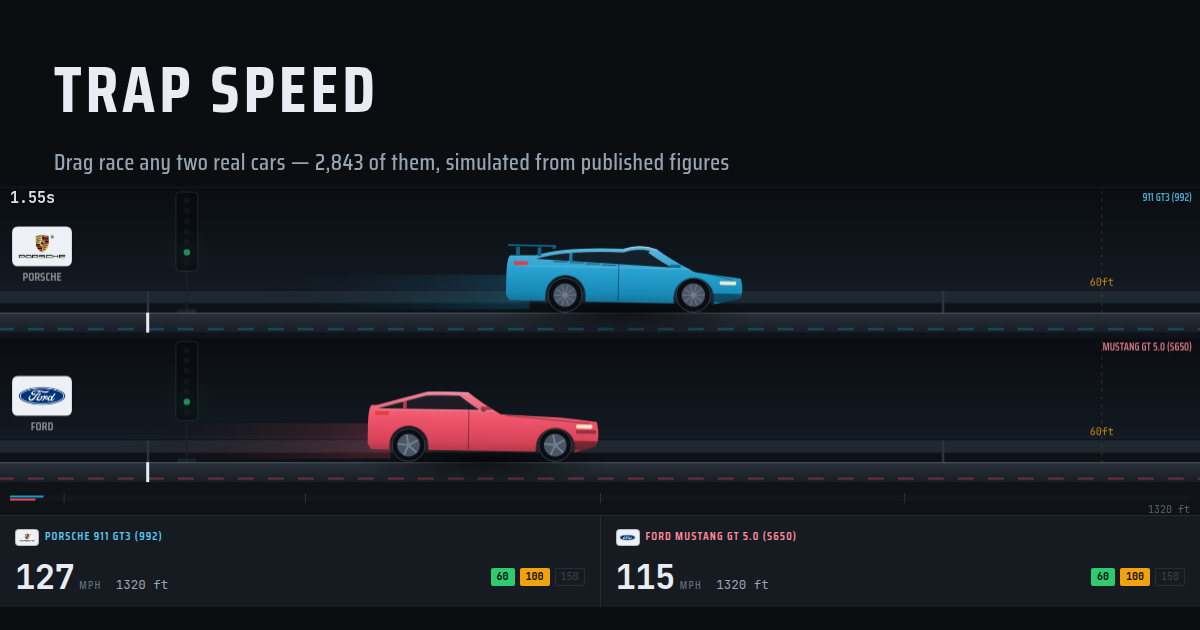
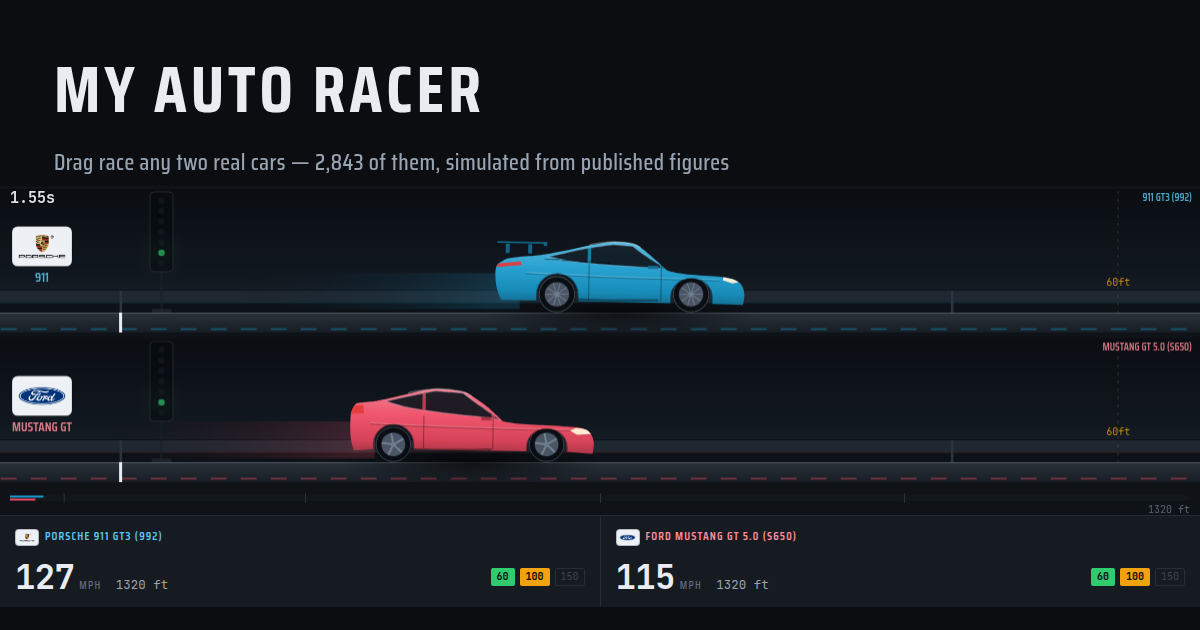
Rebrand to My Auto Racer
The site said Trap Speed everywhere and the domain says myautoracer.com;
two names for one thing is a name nobody remembers. Masthead, title,
footer, breadcrumbs across all 469 pages, og:site_name and the social card
now all read My Auto Racer.

Left alone deliberately: every lowercase "trap speed" in the tables and
copy, which is the metric the site measures and not the brand, and the
trapspeed: postMessage keys, which are an internal protocol between the
page and its embed.

Claude-Session: https://claude.ai/code/session_01LuRQCsbQVsjT6gaSCqSZ9G

diff --git a/src/app.html b/src/app.html
@@ -5,7 +5,7 @@
 try{ if(new URLSearchParams(location.search).get("embed")==="1")
        document.documentElement.classList.add("embed"); }catch(e){}
 </script>
-<title>Trap Speed</title>
+<title>My Auto Racer</title>
 <link rel="preconnect" href="https://fonts.googleapis.com">
 <link rel="preconnect" href="https://fonts.gstatic.com" crossorigin>
 <link rel="stylesheet" href="https://fonts.googleapis.com/css2?family=Archivo:wght@400;500;600&family=JetBrains+Mono:wght@400;700&family=Saira+Condensed:wght@500;600;700&display=swap">
@@ -382,7 +382,7 @@ footer{color:var(--ink3);font-size:11.5px;text-align:center;border-top:1px solid
   <header class="mast">
     <div class="mark">
       <div class="bulbs"><i></i><i></i><i></i></div>
-      <h1>Trap Speed</h1>
+      <h1>My Auto Racer</h1>
     </div>
     <p>Standing and rolling acceleration runs, simulated from published kerb mass, rated power and drivetrain data &mdash; then fitted to each car&rsquo;s full published acceleration profile.</p>
   </header>
@@ -554,7 +554,7 @@ footer{color:var(--ink3);font-size:11.5px;text-align:center;border-top:1px solid
     &nbsp;&middot;&nbsp; <a href="0-60-times/">0-60 times by make</a>
     &nbsp;&middot;&nbsp; <a href="fastest/">Fastest lists &rarr;</a></p>
 
-  <footer>Trap Speed &mdash; a simulator. Real elapsed times depend on the track, the air, the tyres and the driver.<br>
+  <footer>My Auto Racer &mdash; a simulator. Real elapsed times depend on the track, the air, the tyres and the driver.<br>
     Acceleration figures from <a href="https://accelerationtimes.com">accelerationtimes.com</a> and
     <a href="https://cardata.wiki">cardata.wiki</a> (CC&nbsp;BY&nbsp;4.0). Maker badges via the
     <a href="https://github.com/filippofilip95/car-logos-dataset">car-logos-dataset</a>, sourced from

diff --git a/lib/vs.js b/lib/vs.js
@@ -118,7 +118,7 @@ td.w{color:var(--amber)}
 .next a:hover{background:#161E27} .next a:hover .o{color:var(--amber)}
 @media(max-width:620px){.next{grid-template-columns:1fr}}
 </style></head><body><div class="wrap">
-<p class="crumbs"><a class="home" href="${site}/">&larr; Trap Speed</a>
+<p class="crumbs"><a class="home" href="${site}/">&larr; My Auto Racer</a>
 <a class="home" href="${site}/vs/">Comparisons</a>
 <a class="home" href="${site}/0-60-times/">0-60 by make</a>
 <a class="home" href="${site}/fastest/">Fastest lists</a></p>
@@ -231,7 +231,7 @@ li a:hover{background:#161E27;color:var(--amber)}
 .none{color:var(--ink3);padding:14px 2px}
 footer{margin-top:40px;padding-top:16px;border-top:1px solid var(--edge);color:var(--ink3);font-size:12px}
 </style></head><body><div class="wrap">
-<p class="crumbs"><a class="home" href="${site}/">&larr; Trap Speed</a>
+<p class="crumbs"><a class="home" href="${site}/">&larr; My Auto Racer</a>
 <a class="home" href="${site}/0-60-times/">0-60 by make</a>
 <a class="home" href="${site}/fastest/">Fastest lists</a></p>
 <h1>Car comparisons</h1>

diff --git a/build.js b/build.js
@@ -7,7 +7,7 @@ const SRC = path.join(__dirname, "src");
 const OUT = path.join(__dirname, "public");
 
 const SITE  = "https://myautoracer.com";
-const TITLE = "Trap Speed — drag race any two real cars";
+const TITLE = "My Auto Racer — drag race any two real cars";
 const DESC  = "A drag race simulator for real cars. Pick two of 2,843 models, set the "
             + "distance, the surface and the weather, and watch them run. Every car is "
             + "simulated from its published mass, power and drivetrain, then fitted "
@@ -56,7 +56,7 @@ const html = `<!doctype html>
 <title>${TITLE}</title>\n<link rel="canonical" href="${SITE}/">
 <link rel="icon" href="${favicon}">
 <meta property="og:type" content="website">
-<meta property="og:site_name" content="Trap Speed">
+<meta property="og:site_name" content="My Auto Racer">
 <meta property="og:title" content="${TITLE}">
 <meta property="og:description" content="${DESC}">
 <meta property="og:url" content="${SITE}/">

diff --git a/tools/make-og.js b/tools/make-og.js
@@ -13,7 +13,7 @@ setTimeout(()=>{
   document.getElementById("strip").style.height="330px";
   const h=document.createElement("div");
   h.style.cssText="position:fixed;top:0;left:0;right:0;padding:40px 54px 0;font-family:'Saira Condensed',system-ui;";
-  h.innerHTML='<div style="font-size:66px;font-weight:700;letter-spacing:.06em;text-transform:uppercase">Trap Speed</div>'+
+  h.innerHTML='<div style="font-size:66px;font-weight:700;letter-spacing:.06em;text-transform:uppercase">My Auto Racer</div>'+
     '<div style="font-size:23px;color:#98A4B2;margin-top:6px;letter-spacing:.02em">Drag race any two real cars &mdash; 2,843 of them, simulated from published figures</div>';
   document.body.appendChild(h);
   treeLit=new Set([5]); computeTraces(); resetCam();

diff --git a/lib/lists.js b/lib/lists.js
@@ -103,7 +103,7 @@ to each car&rsquo;s full published acceleration profile &mdash; dry asphalt, 20&
 </div></body></html>`;
 }
 
-const crumbs=site=>`<a class="home" href="${site}/">&larr; Trap Speed</a>
+const crumbs=site=>`<a class="home" href="${site}/">&larr; My Auto Racer</a>
 <a class="home" href="${site}/vs/">Comparisons</a>
 <a class="home" href="${site}/0-60-times/">0-60 by make</a>
 <a class="home" href="${site}/fastest/">Fastest lists</a>`;

diff --git a/README.md b/README.md
@@ -1,4 +1,4 @@
-# Trap Speed
+# My Auto Racer
 
 A drag race simulator for real cars. Pick any two of 2,843 models, set the
 distance (or a target speed, a rolling start, a fixed time), set the surface,
